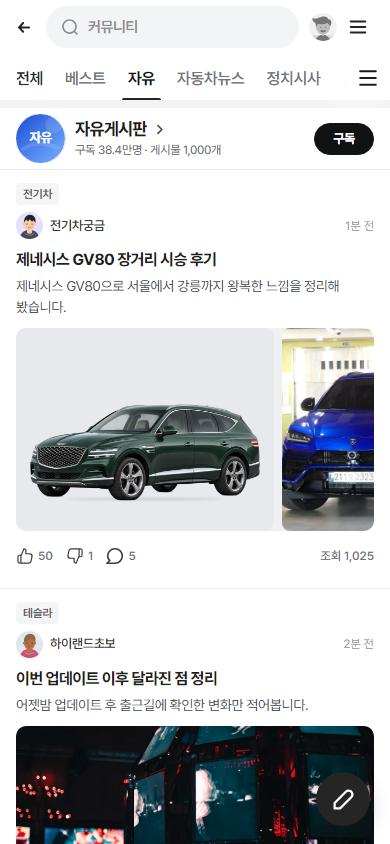
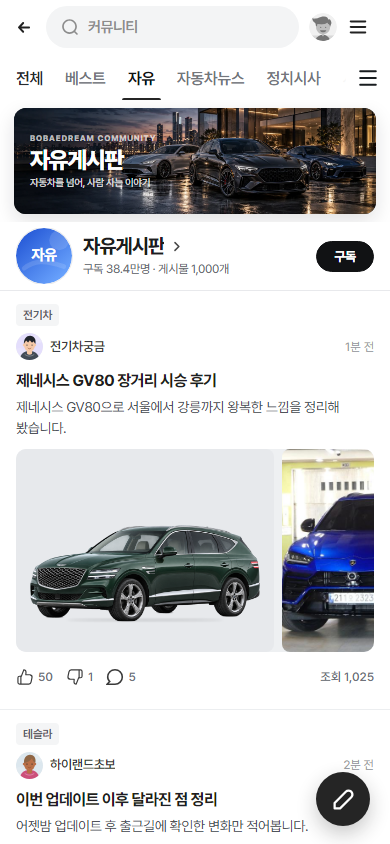
fix: use free native media scrolling

diff --git a/public/community/naver-discussion-feed.css b/public/community/naver-discussion-feed.css
@@ -48,9 +48,9 @@
 .naverDiscussionTitle{display:block;margin:7px 0 4px;color:#1e1e23;font-size:16px;line-height:24px;font-weight:750;letter-spacing:-.035em;text-decoration:none;word-break:keep-all}
 .naverDiscussionBody{display:-webkit-box;margin:0;color:#50545a;font-size:14px;line-height:21px;font-weight:420;letter-spacing:-.025em;-webkit-box-orient:vertical;-webkit-line-clamp:3;overflow:hidden;word-break:keep-all}
 .naverDiscussionMediaShell{position:relative;height:clamp(184px,52vw,210px);margin-top:10px;overflow:hidden;border-radius:10px;background:#eef0f2}
-.naverDiscussionMediaRail{display:flex;width:100%;height:100%;gap:8px;overflow-x:auto;overflow-y:hidden;scroll-snap-type:x proximity;scroll-behavior:auto;scrollbar-width:none;overscroll-behavior-inline:contain;touch-action:pan-x pan-y pinch-zoom;-webkit-overflow-scrolling:touch}
+.naverDiscussionMediaRail{display:flex;width:100%;height:100%;gap:8px;overflow-x:auto;overflow-y:hidden;scroll-snap-type:none;scroll-behavior:auto;scrollbar-width:none;overscroll-behavior-x:contain;-webkit-overflow-scrolling:touch}
 .naverDiscussionMediaRail::-webkit-scrollbar{display:none}
-.naverDiscussionMediaItem{position:relative;display:block;width:100%;height:100%;flex:0 0 100%;overflow:hidden;border-radius:8px;background:#e7e9ec;scroll-snap-align:start;scroll-snap-stop:normal;text-decoration:none;-webkit-tap-highlight-color:transparent}
+.naverDiscussionMediaItem{position:relative;display:block;width:100%;height:100%;flex:0 0 100%;overflow:hidden;border-radius:8px;background:#e7e9ec;text-decoration:none;-webkit-tap-highlight-color:transparent}
 .naverDiscussionMediaShell.is-multi .naverDiscussionMediaItem{flex-basis:auto}
 .naverDiscussionMediaShell.is-multi .naverDiscussionMediaItem[data-ratio="landscape"]{width:72%;flex-basis:72%}
 .naverDiscussionMediaShell.is-multi .naverDiscussionMediaItem[data-ratio="square"]{width:54%;flex-basis:54%}

diff --git a/public/community/naver-cafe-list.html b/public/community/naver-cafe-list.html
@@ -7,7 +7,7 @@
 <title>보배드림 커뮤니티</title>
 <link rel="stylesheet" href="../%61ssets/fonts/pretendard/pretendard-guazi.css">
 <link rel="stylesheet" href="./reddit-feed.css?v=20261016redditicons1">
-<link rel="stylesheet" href="./naver-discussion-feed.css?v=20261016navermedia3">
+<link rel="stylesheet" href="./naver-discussion-feed.css?v=20261016navermedia4">
 <link rel="stylesheet" href="./chotot-feed.css?v=20261016saveicon1">
 <link rel="stylesheet" href="./reddit-popular.css?v=20261016popular6">
 <link rel="stylesheet" href="./hupu-board-navigation.css?v=20261016reorder3">
@@ -210,7 +210,7 @@ renderList();
 <script src="./scenario-data.js?v=20261015avatars1"></script>
 <script src="./reddit-popular.js?v=20261016popular6"></script>
 <script src="./reddit-feed.js?v=20261016redditicons1"></script>
-<script src="./naver-discussion-feed.js?v=20261016navermedia3"></script>
+<script src="./naver-discussion-feed.js?v=20261016navermedia4"></script>
 <script src="./chotot-feed.js?v=20261016redditicons2"></script>
 </body>
 </html>

diff --git a/design-qa.md b/design-qa.md
@@ -255,6 +255,8 @@ final result: passed
 - 사용자 후속 수정 5: 초톳 주민 리뷰를 다시 확인해 같은 높이 안에서 가로·정사각·세로 이미지 폭을 보존하도록 바꿨다. 영상 게시물은 실제 로컬 MP4와 재생 버튼을 연결했고 페이지네이션은 각 미디어 카드 안에 개별 배치했다.
 - 사용자 후속 수정 6: 한 화면에 서로 다른 폭의 미디어 카드가 2개 이상 보이는 레일에서는 현재 페이지 기준이 모호해 번호와 도트를 모두 제거했다. 좌우 스크롤·스냅·다음 카드 노출·영상 재생은 유지했다.
 - 사용자 후속 수정 7: 사진 제스처가 카드마다 끊기던 `mandatory`·`always` 강제 스냅과 강제 부드러운 스크롤을 제거했다. 네이티브 관성 스크롤, `proximity` 스냅, 자유롭게 여러 카드를 넘길 수 있는 `normal` 정지로 바꿨다.
+- 사용자 후속 수정 8: `proximity` 스냅에서도 끊김이 남아 있어 가변 폭 미디어 레일의 스냅을 완전히 제거했다. 손가락 이동량과 관성을 그대로 유지하는 자유 가로 스크롤로 확정했다.
+- 전수 시나리오 검수: 360/390/412px에서 렌더링, 단일·다중 미디어, 4종 비율, 자유 스크롤 위치 유지, 페이지네이션 제거, 이미지 로딩, 제목·사진 상세 ID 연결, 첫 이미지 우선 로딩, 후속 이미지 지연 로딩, 영상 재생·컨트롤·상태 문구, 다른 영상 재생 시 기존 영상 정지, 버프·너프 선택·상호 배타·재선택 해제, 댓글 앵커 이동, 가로 오버플로, 콘솔 오류를 자동 검사한다.
 
 final result: passed
 
